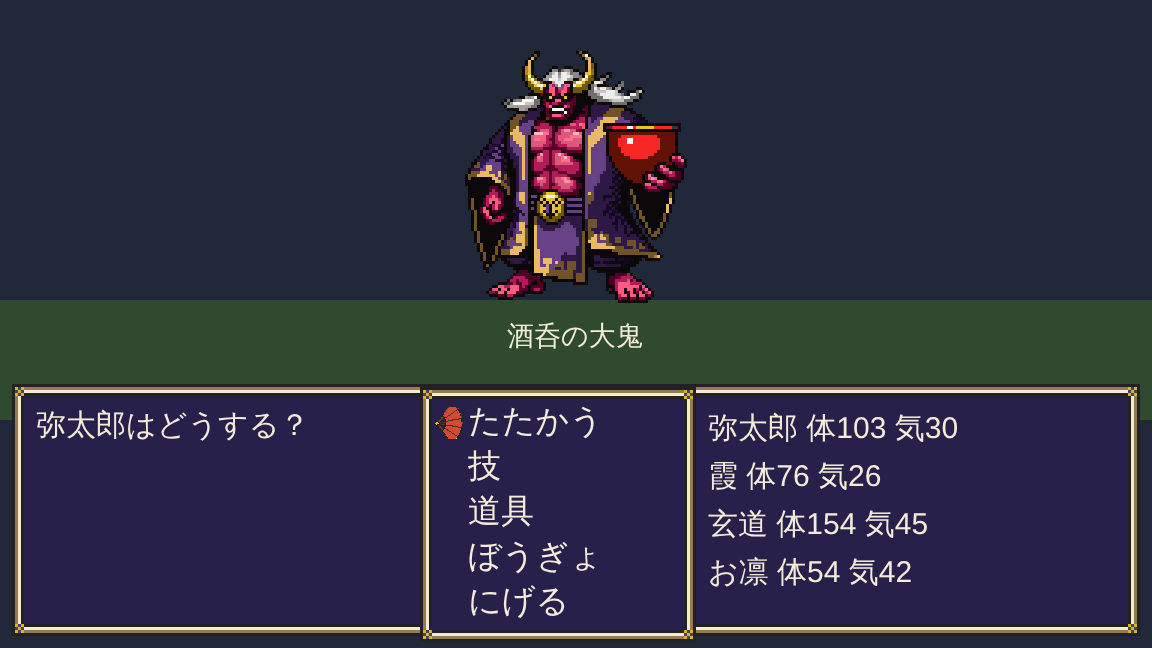
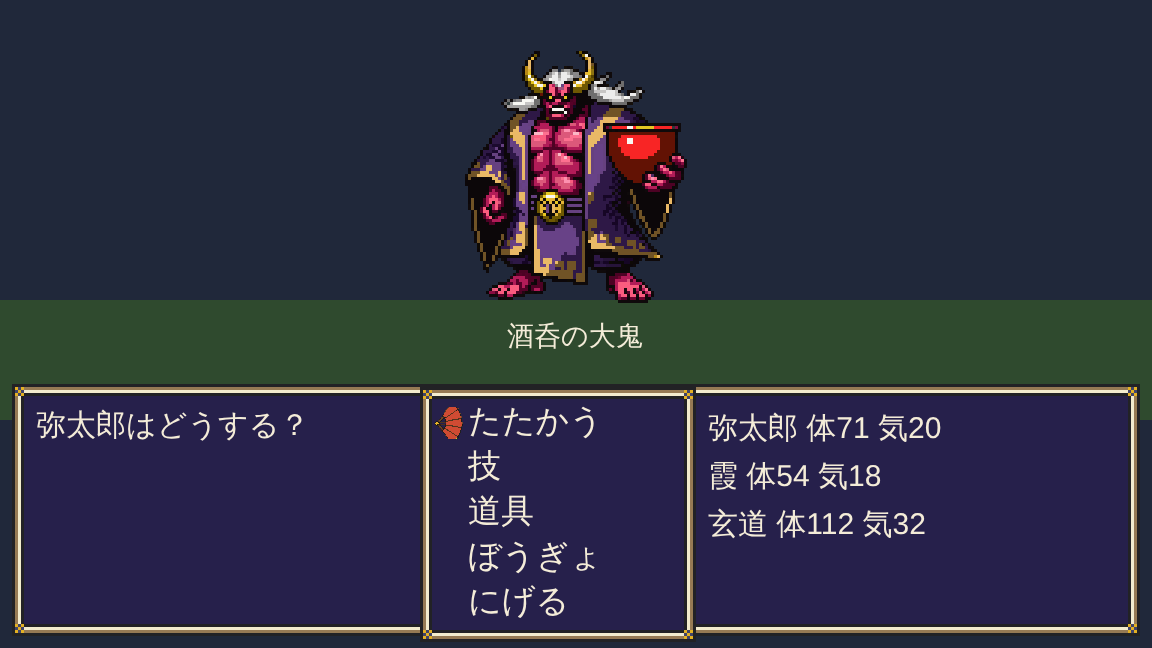
戦闘のスクリーンショットを本来のパーティ（3 人）で撮り直し、画像の作り方の説明を正確にする
酒呑の大鬼は第 3 章のボスで、お凛（第 4 章で加入）はまだいないため、弥太郎・霞・玄道の Lv13 で撮り直した。
画像には PixelLab を使わずスクリプトで描いたものもあるため、「多くを PixelLab で作った」とした。

Claude-Session: https://claude.ai/code/session_01TGCvVdQw9kMyzQQEErAqYs

diff --git a/README.md b/README.md
@@ -4,7 +4,7 @@
 
 **遊ぶ: [https://newnakashima.github.io/edo-rpg/](https://newnakashima.github.io/edo-rpg/)**
 
-このゲームは、コードのほぼすべてを [Claude Code](https://claude.com/claude-code) が書き、ドット絵の画像を [PixelLab](https://www.pixellab.ai/) で作った実験的なゲームです。人間が関わったのは、ほぼ企画とテストプレイのフィードバックだけです。
+このゲームは、コードのほぼすべてを [Claude Code](https://claude.com/claude-code) が書き、ドット絵の画像の多くを [PixelLab](https://www.pixellab.ai/) で作った実験的なゲームです（一部の画像は Claude Code が書いたスクリプトで描いたり手直ししたりしています）。人間が関わったのは、ほぼ企画とテストプレイのフィードバックだけです。
 
 | タイトル | 町を歩く（京） | 戦闘（酒呑の大鬼） |
 | --- | --- | --- |
